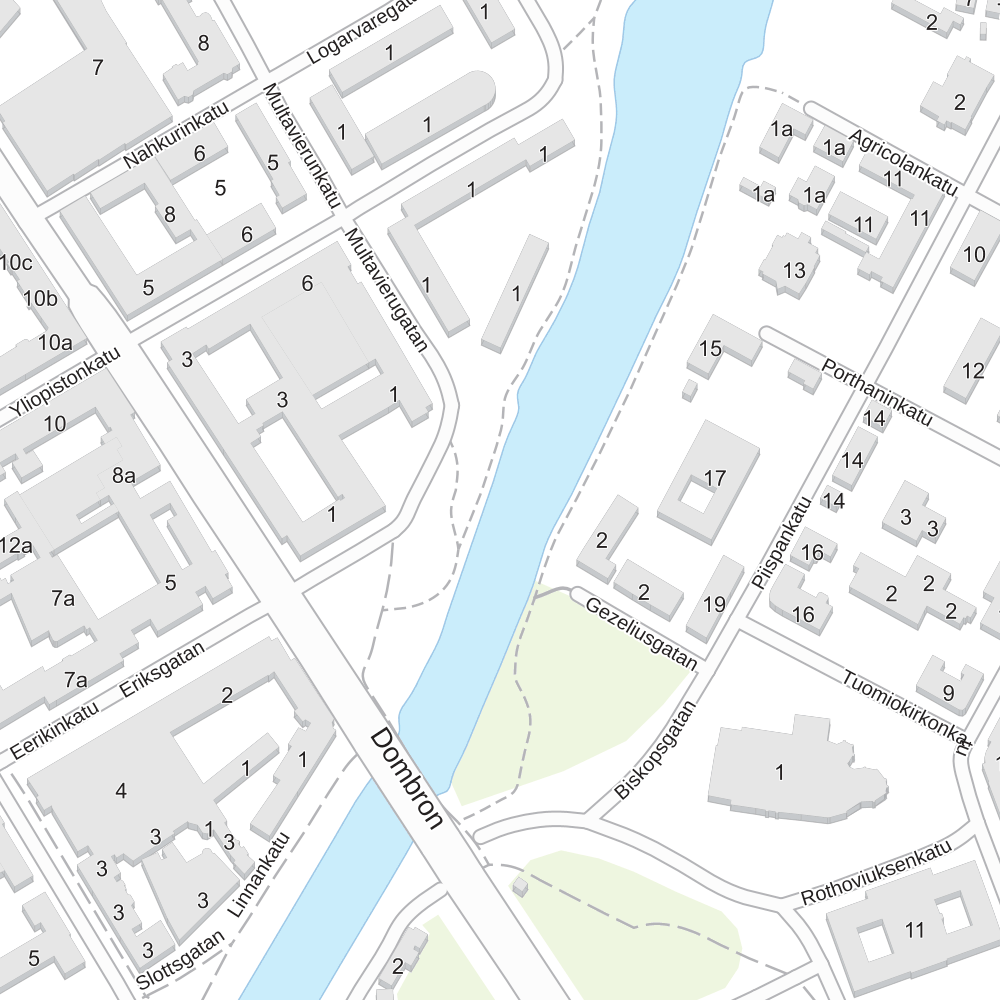
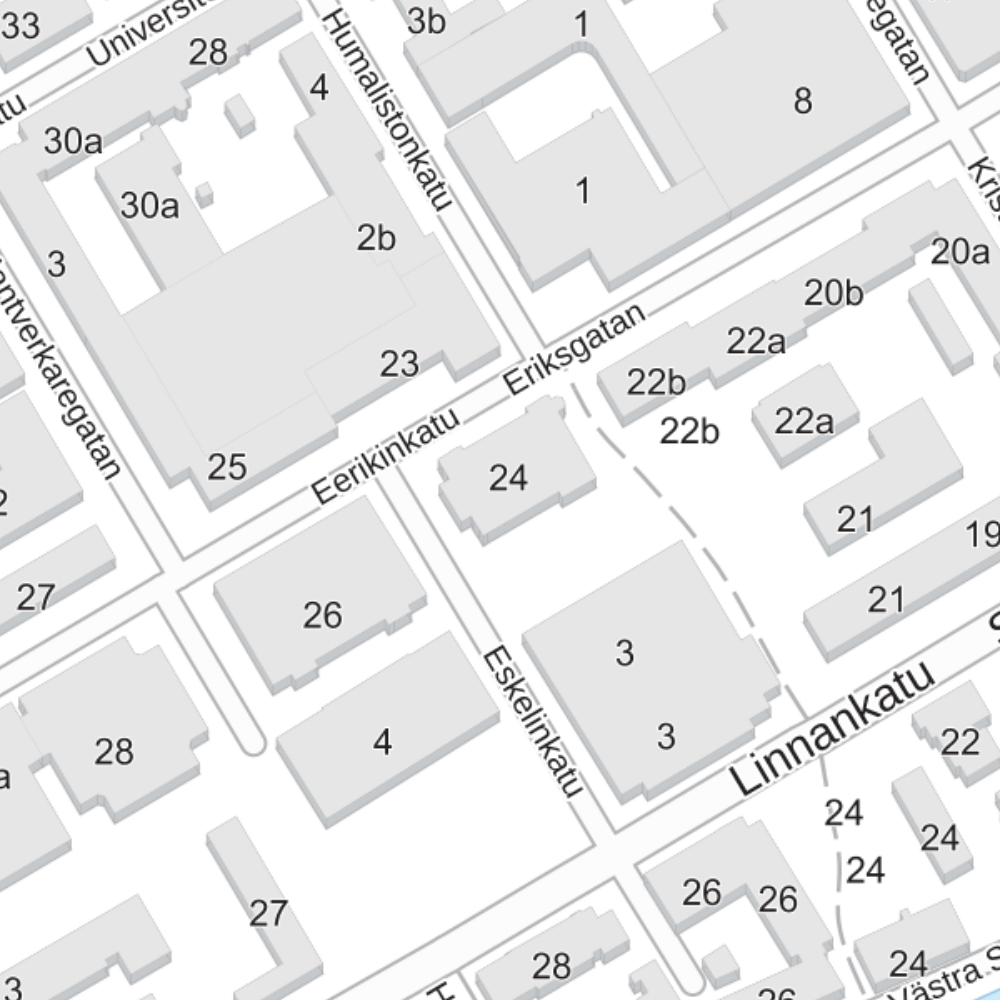
Siirrä kartta VPK-talolle ja lisää hyödyn kontrollit

diff --git a/If/labra/v0/toisto/pohja.html b/If/labra/v0/toisto/pohja.html
@@ -7,7 +7,7 @@
 @@CSS@@
 </style>
 <main>
-  <h1>Turku · tammikuu 2026</h1>
+  <h1>Turku · VPK-talon ympäristö · tammikuu 2026</h1>
   <p>Artukaisen sää on mitattu. Ohikulut, liukastumiset, kaatumiset ja huoltotoimet on simuloitu.</p>
   <div class="ohjaus">
     <button id="play" type="button">Toista</button>
@@ -27,6 +27,7 @@
   <details><summary>Simulaation oletukset</summary><p id="assumptions"></p>
     <p>Reitit on hahmoteltu käsin kartalta. Kulkemisen määrät ja paikallinen liukkaus ovat oletuksia. Huoltokohteet ovat samankokoisia neliöitä; todellisia työaikoja ei mallinneta. Tulokset kuvaavat tätä simulaatiota. Sääaseman havainto ei mittaa yksittäisen ruudun tienpintaa.</p>
     <p>Vasen vaihtoehto kiertää kohteita järjestyksessä. Oikea käyttää aiempien havaintojen määrää ja aiemmin havaittua kulkemista. Kumpikaan ohjaus ei näe simulaation piilevää liukkautta. Tuotteelle ei ole annettu Ifin asiakastietoja tai kaupungin todellista huoltolokia.</p>
+    <p>Mahdollinen etu perustuu oletettuun paikalliseen vaaratason vaihteluun, kulkemiseroihin ja hiekoituksen vaikutukseen. Tämä vertailu ei vielä erottele havaintojen lisäarvoa pelkästä vilkkaiden paikkojen priorisoinnista.</p>
   </details>
 </main>
 <script>

diff --git a/If/labra/v0/HYOTY.md b/If/labra/v0/HYOTY.md
@@ -1,0 +1,60 @@
+# Mihin simuloitu hyöty perustuu?
+
+Tapahtumat arvotaan toisistaan riippumattomina **ehdolla**, että paikallinen
+vaarataso, sää, kulkeminen ja huoltotila tunnetaan. Eri paikoille ei kuitenkaan
+anneta samaa vaaratasoa. Kunkin huoltoalueen piilevä kerroin arvotaan kerran ja
+säilytetään koko kuukauden. Tämän vuoksi saman paikan aiemmat havainnot voivat
+kertoa myös sen tulevista tapahtumista. Yksi liukastuminen ei aiheuta seuraavaa.
+
+Nykyisessä mallissa odotettu kaatumismäärä on karkeasti
+
+```
+ohikulut × liukastumistodennäköisyys × kaatumistodennäköisyys liukastumisesta
+```
+
+Sama hiekoitus voi siten estää enemmän kaatumisia vilkkaassa tai vaarallisessa
+paikassa. Hiekoituksen 60 prosentin vaikutus ja 12 tunnin kesto ovat oletuksia.
+Näitä vaikutuksia tai paikallista vaaratason vaihtelua ei ole mitattu tästä aineistosta.
+Käytössä oleva todellinen aineisto on sää ja kartta.
+
+## Mitä nykyinen vertailu ei erottele
+
+Aikatauluvaihtoehto kiertää kohteet järjestyksessä. Tuotevaihtoehto käyttää sekä
+kulkemista että tapahtumahavaintoja. Mahdollinen ero sisältää molempien tietojen
+vaikutuksen. Se ei yksin osoita tapahtumahavaintojen lisäarvoa tai Ifin tuotteen
+todellista vaikuttavuutta. Aikatauluvaihtoehto ei ole Turun todellisen huollon malli.
+
+Pelkkään kulkemiseen perustuvan kohdistuksen saa asettamalla
+`havaintopaino = 0`. Arvo 1 käyttää myös tapahtumahavaintoja. Tätä vertailua
+tarvitaan ennen tapahtumahavaintojen hyötyä koskevaa johtopäätöstä.
+
+```r
+source("aja_tammikuu.R")
+pelkka_kulkeminen <- tammikuu
+pelkka_kulkeminen$havaintopaino <- 0
+ilman_havaintoja <- simuloi_tammikuu(pohja, saa, pelkka_kulkeminen)
+```
+
+Kymmenen siemenen erittely samoilla maailmoilla:
+
+```r
+source("R/vertaa_siemenet.R")
+a <- vertaa_siemenet(pohja, saa, tammikuu, 1:10)
+b <- vertaa_siemenet(pohja, saa, pelkka_kulkeminen, 1:10)
+vertailu <- data.frame(seed = a$seed, aikataulu = a$falls_schedule,
+  pelkka_kulkeminen = b$falls_product, havainnot_ja_kulkeminen = a$falls_product,
+  havaintojen_odotettu_lisaarvo = a$expected_difference - b$expected_difference)
+write.csv(vertailu, "tulokset/havaintojen_lisaarvo.csv", row.names = FALSE)
+```
+
+## Tasaisen vaaratason kontrolli
+
+`Rscript tarkista_hyoty.R` asettaa kaikille ruuduille saman vaaratason ja saman
+kulkemisen. Molemmissa vaihtoehdoissa on samalla hetkellä yhtä monta samankokoista
+huollettua ruutua. Kontrolli tarkistaa kymmenellä siemenellä, että odotettu
+kaatumismäärä on molemmissa sama. Toteutuneet arvotut määrät voivat silti erota.
+
+Kontrollissa huollon vaikutusaika on sama kuin huoltoväli. Näin päällekkäiset
+huollot eivät muuta suojattua pinta-alaa. Kuukausidemon oletuksilla sama toimimäärä
+ei takaa samaa suojattua pinta-alaa: sama kohde voidaan hiekoittaa uudelleen ennen
+edellisen vaikutuksen päättymistä. Tämäkin voi vaikuttaa vaihtoehtojen eroon.

diff --git a/If/labra/v0/README.md b/If/labra/v0/README.md
@@ -54,9 +54,10 @@ Se tuottaa `grid.csv`, `true_falls.csv` ja `tulokset/kaatumiset.png`.
 
 ## Kartta ja sijainti
 
-Rajaus on 500 × 500 metriä Tuomiokirkon ja Tuomaansillan ympärillä:
-E 240000–240500, N 6711000–6711500, ETRS-TM35FIN (EPSG:3067).
-`x` on itäkoordinaatti ja `y` pohjoiskoordinaatti metreinä. Ruudukossa on 2500 ruutua.
+Rajaus on 300 × 300 metriä VPK-talon ympärillä (Eskelinkatu 5):
+E 239280–239580, N 6710600–6710900, ETRS-TM35FIN (EPSG:3067).
+`x` on itäkoordinaatti ja `y` pohjoiskoordinaatti metreinä. Ruudukossa on 900 ruutua.
+Joki jää rajauksen ulkopuolelle. Sijainnin lähde: [Suomi.fi, Turun VPK](https://www.suomi.fi/palvelut/palvelupiste/turun-vpk-varsinais-suomen-pelastuslaitos/4fbf2d65-d776-4e3b-8bb5-22e978113125).
 
 Taustakartta: [Maanmittauslaitoksen taustakarttasarja Kapsin WMS-palvelusta](https://kartat.kapsi.fi/),
 CC BY 4.0. `data/alkuperainen/kartta/turku.json` sisältää lähdeosoitteen,
@@ -125,6 +126,9 @@ Kaikki huolto on simuloitua: aikatauluvaihtoehto ei kuvaa Turun todellista toimi
 Ifin asiakkaita tai euroja ei ole eroteltu. Hyötymittari on kaatumistapahtumien erotus
 samalla toimimäärällä. Yksi ajo ei osoita tuotteen todellista vaikuttavuutta;
 vaihda siementä ja vaikutusoletuksia tuloksen herkkyyden tutkimiseksi.
+
+Hyödyn oletukset, vertailun rajoitus ja tasaisen vaaratason kontrolli:
+[HYOTY.md](HYOTY.md). Kontrollin voi ajaa komennolla `Rscript tarkista_hyoty.R`.
 
 Esimerkiksi kymmenen siementä R:ssä v0-kansiosta:
 
